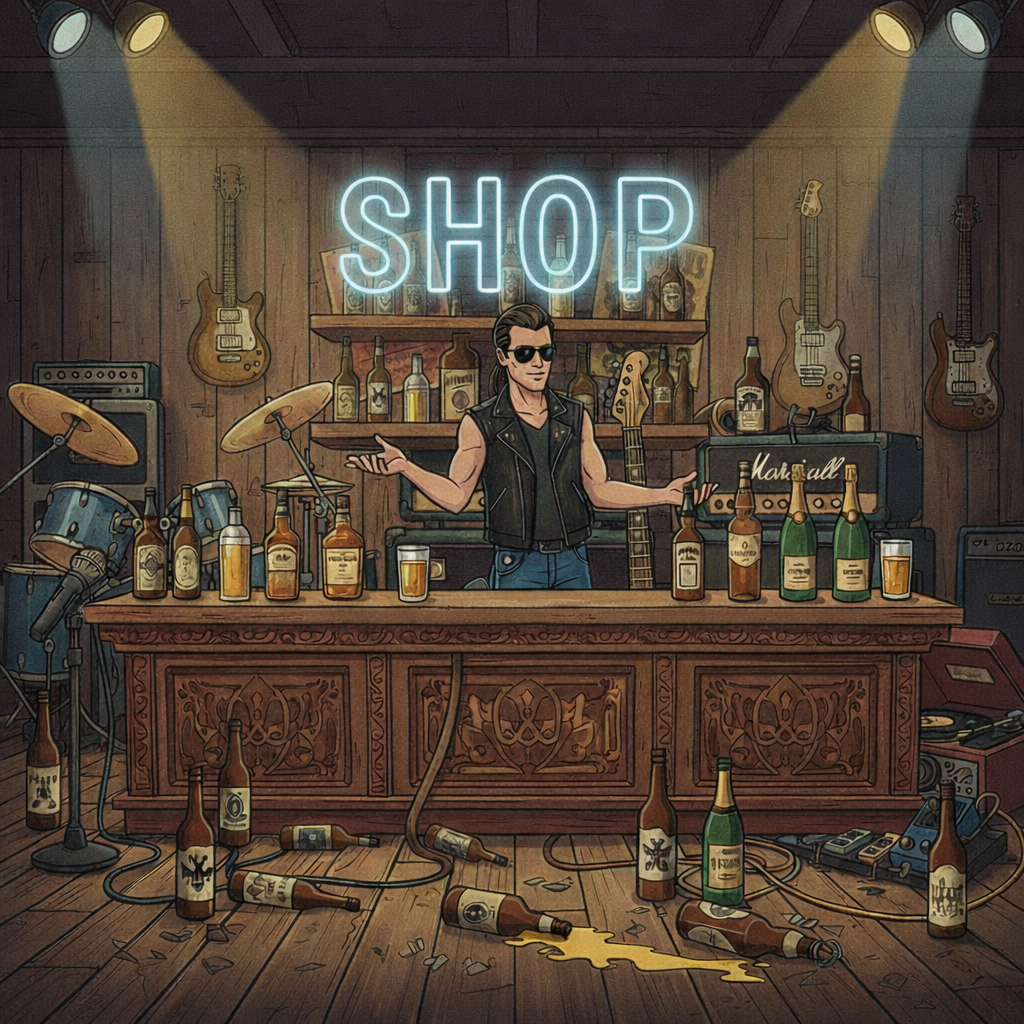
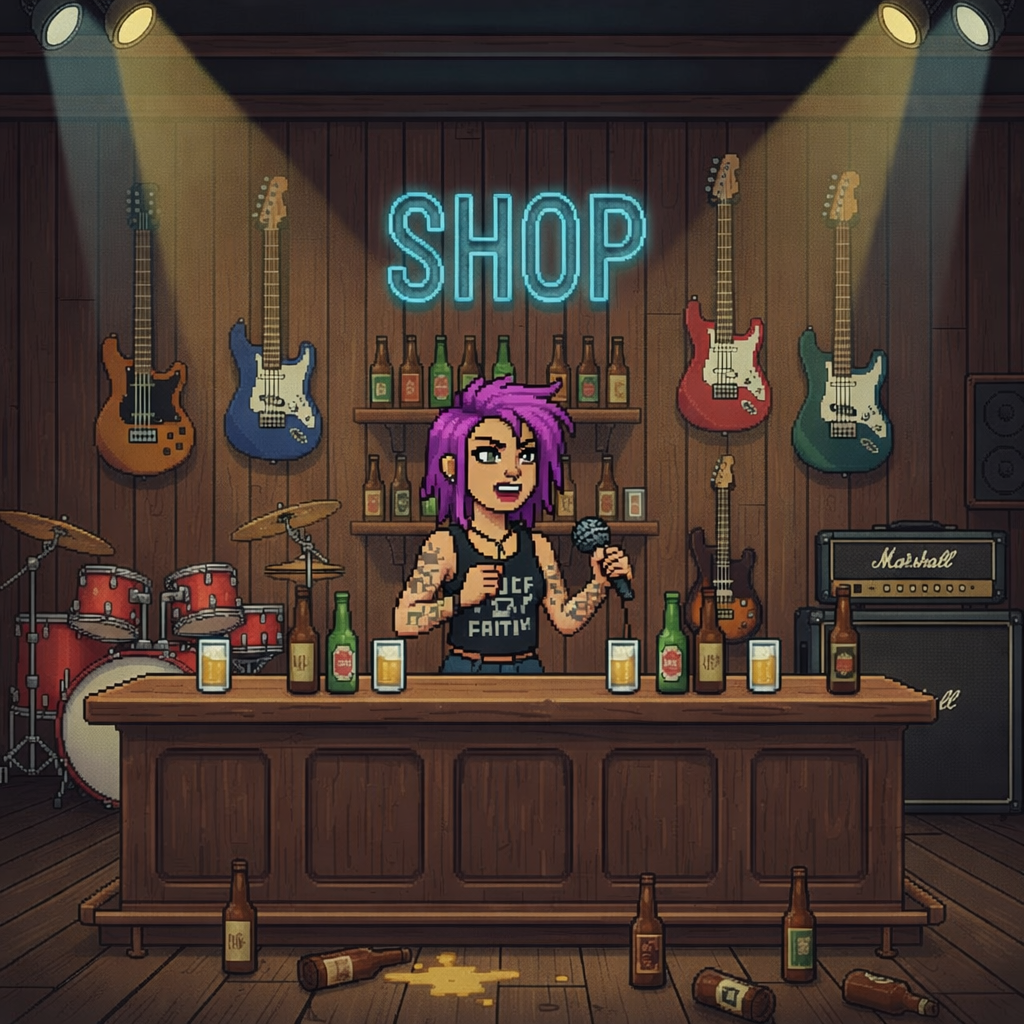
commit image

diff --git a/docs/SCENARIO.md b/docs/SCENARIO.md
@@ -1,80 +1,52 @@
 # 🎸 SCENARIO.md - SIX-STRING HANGOVER
 
 ## 🍺 PITCH
-Vous êtes **Johnny Fuzz**, une légende du rock sur le déclin (aka "Has-been"). Votre mission : Traverser la tournée la plus foireuse de l'histoire pour payer vos dettes. Entre concerts dans des bars miteux et bastons de rue, vous devez gérer votre **Hype** (Satisfaction du public) et votre **Santé** pour ne pas finir en cure de désintox avant le rappel.
+Vous êtes **Lola Coma**, une rockstar sur le déclin. Votre mission : Traverser la tournée la plus foireuse de l'histoire pour payer vos dettes. Entre concerts et bastons, gérez votre **Énergie** et votre **Santé** pour tenir jusqu'au rappel.
 
 ---
 
 ## 🎭 STRUCTURE DES ACTES
 
 ### 🟢 ACTE I : LE BAR "LE GOSIER SEC"
-*L'ambiance pue la bière tiède et le désespoir. Johnny doit prouver qu'il a encore le niveau.*
-
 #### 🎵 PHASE 1 : LE CONCERT (Mode Rythme)
-* **Objectif :** Remplir la jauge de **Satisfaction du Public**.
-* **Enjeu :** Le public est difficile (c'est des bikers). Si la jauge tombe à 0, vous recevez des bouteilles et c'est Game Over.
-* **Musique :** *Seven Nation Army* (Version Rock Gras).
-* **Récompense :** Si le concert est réussi, Johnny gagne du **CASH ($)** (la recette du bar).
+* **Musique :** *Seven Nation Army* - The White Stripes.
+* **Objectif :** Valider les notes pour gagner du **CASH ($)**.
 
-#### 🛑 PLOT TWIST (Dialogue)
-> **Le Patron du Bar :** "Pas mal pour un vieux débris. Mais j'ai pas de quoi te payer. Par contre, **Gros Bill** là-bas a pas aimé que tu joues plus fort que sa moto."
-> **Johnny :** "Tu vas me payer, ou je vais accorder ta tête avec le comptoir."
-
-#### ⚔ PHASE 2 : LE COMBAT (Mode Tour par Tour)
+#### ⚔ PHASE 2 : LE COMBAT (Tour par tour)
 * **Adversaire :** **GROS BILL** (Chef des Bikers).
-* **Contexte :** Le patron refuse de lâcher l'argent. Gros Bill s'interpose.
-* **Mécanique :** Utiliser l'argent gagné au concert (imaginaire ou buffs) pour booster l'attaque.
-* **Victoire :** Johnny assomme Gros Bill, vide la caisse du bar et s'enfuit vers le festival.
+* **Contexte :** Le patron refuse de payer. Lola doit battre Gros Bill pour vider la caisse et partir au festival.
 
 ---
 
 ### 🟡 ACTE II : LE FESTIVAL "WOOD-STOCK-OPTION"
-*Un festival corporatiste géré par des agents de sécurité zélés. Johnny a perdu son pass VIP.*
-
 #### ⚔ PHASE 1 : L'INFILTRATION (Mode Combat)
-* **Adversaire :** **CHEF DE LA SÉCURITÉ** & Ses agents.
-* **Contexte :** Johnny arrive au festival mais on lui refuse l'entrée ("Désolé papy, c'est complet"). Il doit forcer le passage pour récupérer sa guitare légendaire confisquée en loge.
-* **Enjeu :** Survivre aux matraques pour atteindre la scène principale.
-* **Récompense :** Récupération de la **Guitare "Excalibur"** (Bonus de dégâts et de multiplicateurs de score).
-
-#### 🛑 TRANSITION (Dialogue)
-> **Johnny (essuyant du sang) :** "Bon, maintenant que j'ai ma pelle, on va leur montrer ce que c'est que du vrai son."
-> **Public :** "C'est qui ce clochard sur scène ? ... Attends, il a une Gibson 59 ?!"
+* **Adversaire :** **CHEF DE LA SÉCURITÉ**.
+* **Contexte :** On lui refuse l'entrée, Lola force le passage pour monter sur scène.
 
 #### 🎵 PHASE 2 : LE GRAND SHOW (Mode Rythme)
-* **Objectif :** Faire monter la Hype au maximum pour attirer l'attention des producteurs.
-* **Musique :** Un morceau plus rapide et technique (ex: *Smells Like Teen Spirit*).
-* **Difficulté :** Plus élevée. Les fausses notes font baisser la Hype drastiquement.
-* **Victoire :** Le public est en délire, Johnny est sacré Roi du Festival.
+* **Musique :** *Another One Bites the Dust* - Queen.
+* **Objectif :** Récupérer un maximum de cash auprès de la foule en délire.
 
 ---
 
 ### 🔴 ACTE III : LE STADE (FINALE)
-*Le toit du monde. Ou le toit du stade, littéralement.*
-
-#### ⚔ PHASE FINALE : BOSS ULTIME
+#### ⚔ PHASE FINALE : LE BOSS
 * **Adversaire :** **LE MANAGER CORROMPU**.
-* **Contexte :** Il essaie de s'enfuir en hélicoptère avec la caisse de la tournée.
-* **Mécanique Spéciale :** **"Overdrive"**. Mélange de combat et de QTE (Quick Time Events) rythmiques.
-* **Fin :** Johnny récupère le sac de billets, jette sa guitare dans les pales de l'hélico (explosion), et part boire un coup.
+* **Musique de fond :** *The Final Countdown* - Europe.
+* **Contexte :** Il tente de s'enfuir avec la caisse de la tournée. Lola doit le stopper définitivement.
+* **Fin :** Lola récupère le sac de billets et part s'offrir la meilleure bouteille du pays.
 
 ---
 
 ## 🕹 LES MÉCANIQUES CLÉS
 
-### 1. MODE RYTHME (Le Gagne-Pain)
-* **Jauge de Hype :** Remplace la barre de vie.
-    * *Miss* = La foule s'énerve (baisse).
-    * *Perfect* = La foule exulte (monte + gain d'argent).
-* **Conséquence :** L'argent gagné ici sert à acheter des soins/buffs pour le combat suivant.
+### 1. MODE RYTHME
+* **Gain :** Chaque note réussie génère de l'argent.
+* **Échec :** Faire trop de fausses notes arrête le morceau et réduit les gains.
 
-### 2. MODE COMBAT (La Survie)
-* **Système :** Tour par tour classique (Attaque / Défense / Objet).
-* **Armes :** Différentes guitares (La Pelle, L'Électrique, La Double-Manche).
-* **Spécial :** **L'Ivresse**.
-    * Boire un coup = +Attaque mais -Précision.
-    * Trop boire = Coma éthylique (Game Over).
+### 2. MODE COMBAT
+* **Système :** Tour par tour simplifié (**Attaque / Objet**).
+* **L'Ivresse :** Boire un coup augmente l'Attaque mais réduit la Précision. Attention au Game Over en cas d'abus !
 
-### 3. LA PROGRESSION
-* **Argent ($) :** Gagné en concert, dépensé avant les combats.
-* **Matos :** Gagné après les combats, améliore le score en concert.
+### 3. ÉCONOMIE & OBJETS
+* **Le Cash ($) :** L'argent gagné durant les phases de rythme sert exclusivement à **acheter des boissons** (soins et buffs) entre les niveaux.
